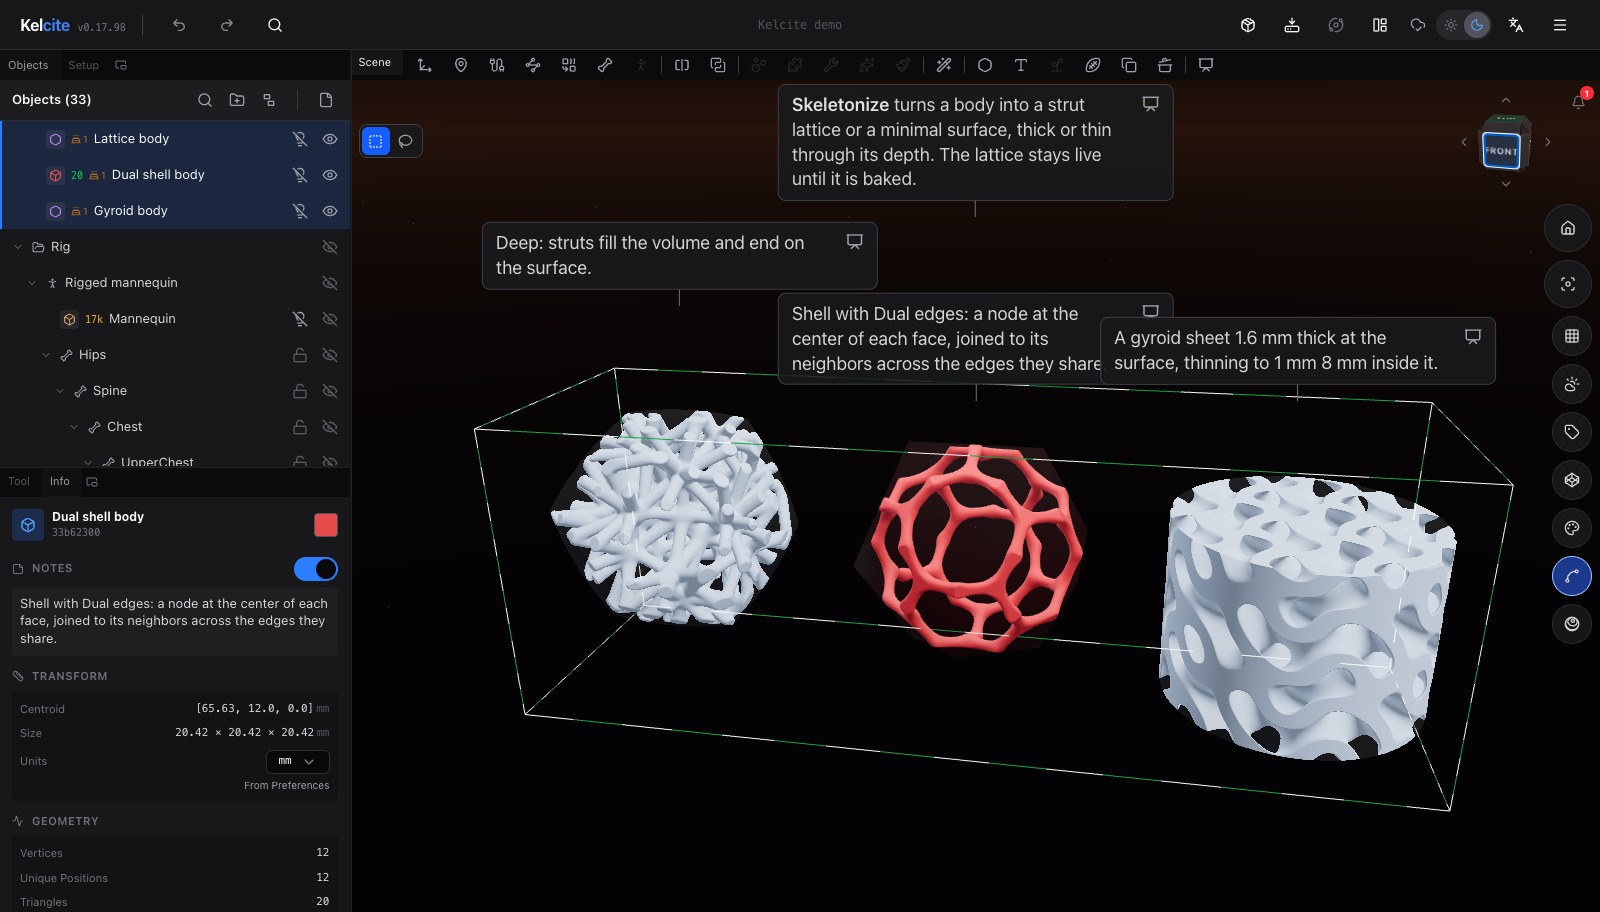
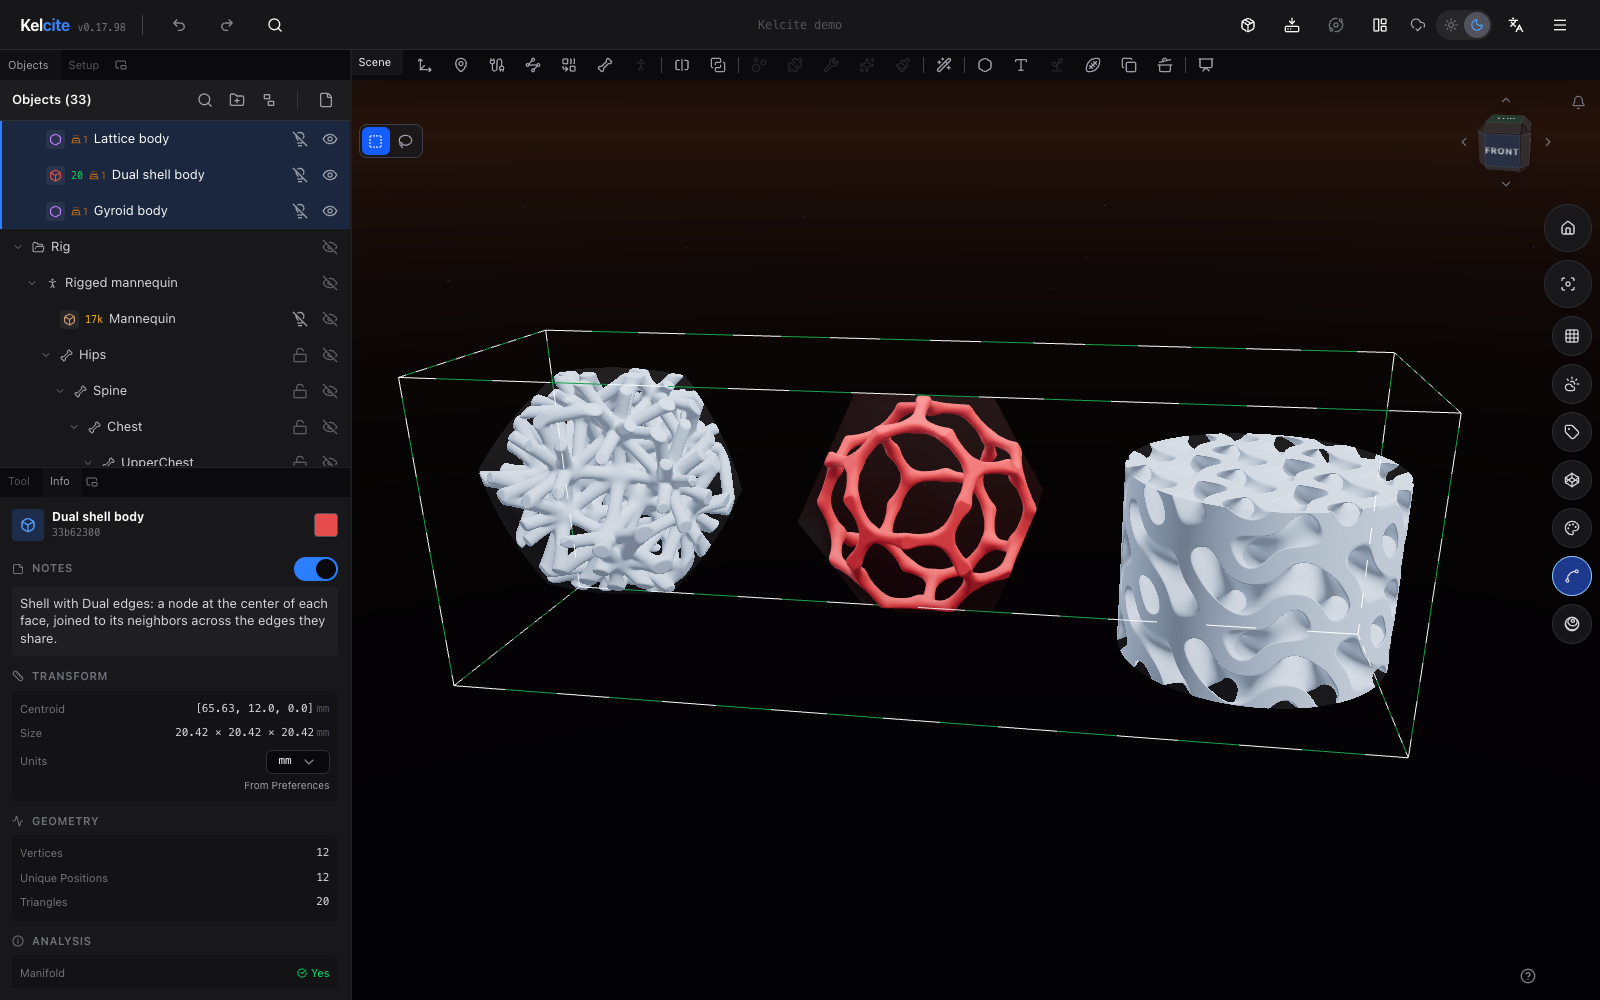
docs(readme): hero without overlapping note flags

diff --git a/README.md b/README.md
@@ -16,7 +16,7 @@
 </div>
 
 <p align="center">
-  <img src="images/hero.png" alt="The Kelcite window with three lattice bodies from the demo selected: a clay icosahedron filled with struts, an icosahedron mesh with a shell along its dual edges, and a cylinder with a gyroid sheet, each under its note flag, with the Objects and Info panels at the left and the tool palette above the scene" width="100%">
+  <img src="images/hero.png" alt="The Kelcite window with three lattice bodies from the demo selected: a clay icosahedron filled with struts, an icosahedron mesh with a shell along its dual edges, and a cylinder with a gyroid sheet, with the Objects and Info panels at the left and the tool palette above the scene" width="100%">
 </p>
 
 ## Philosophy
